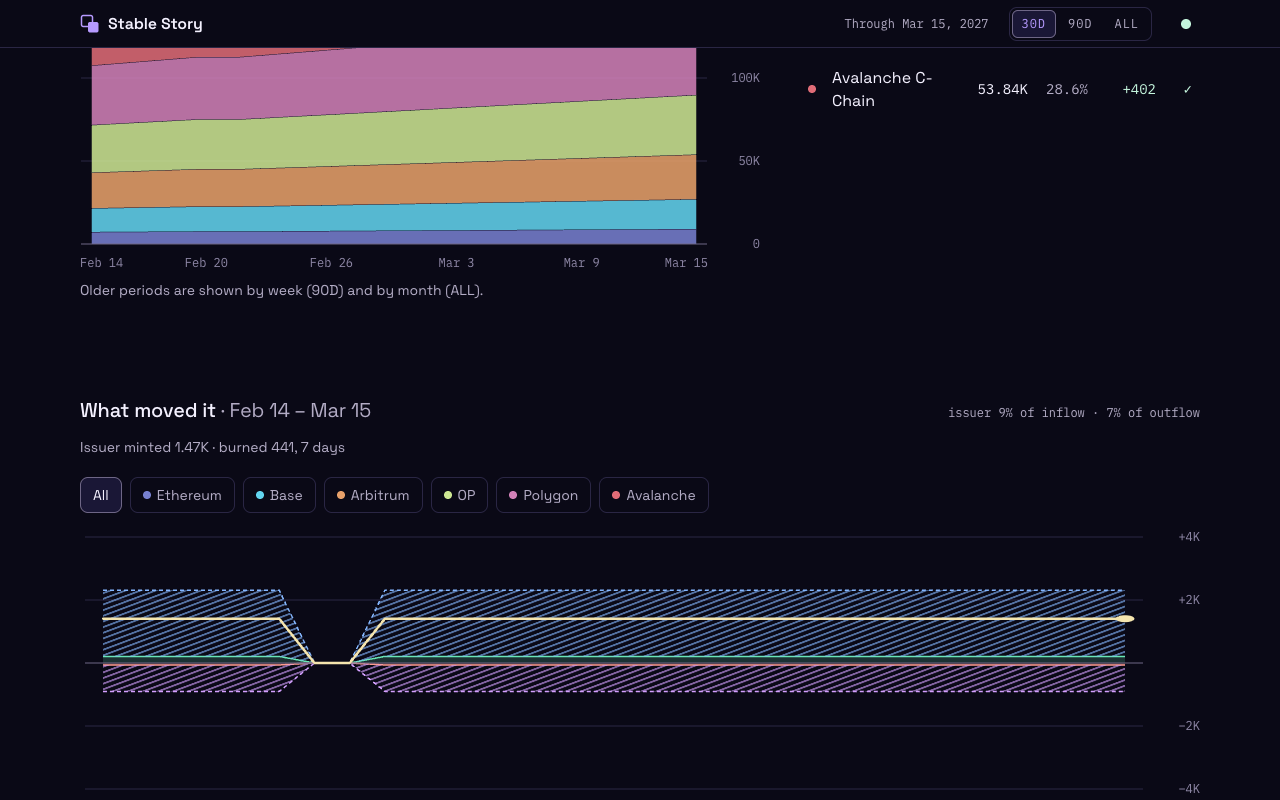
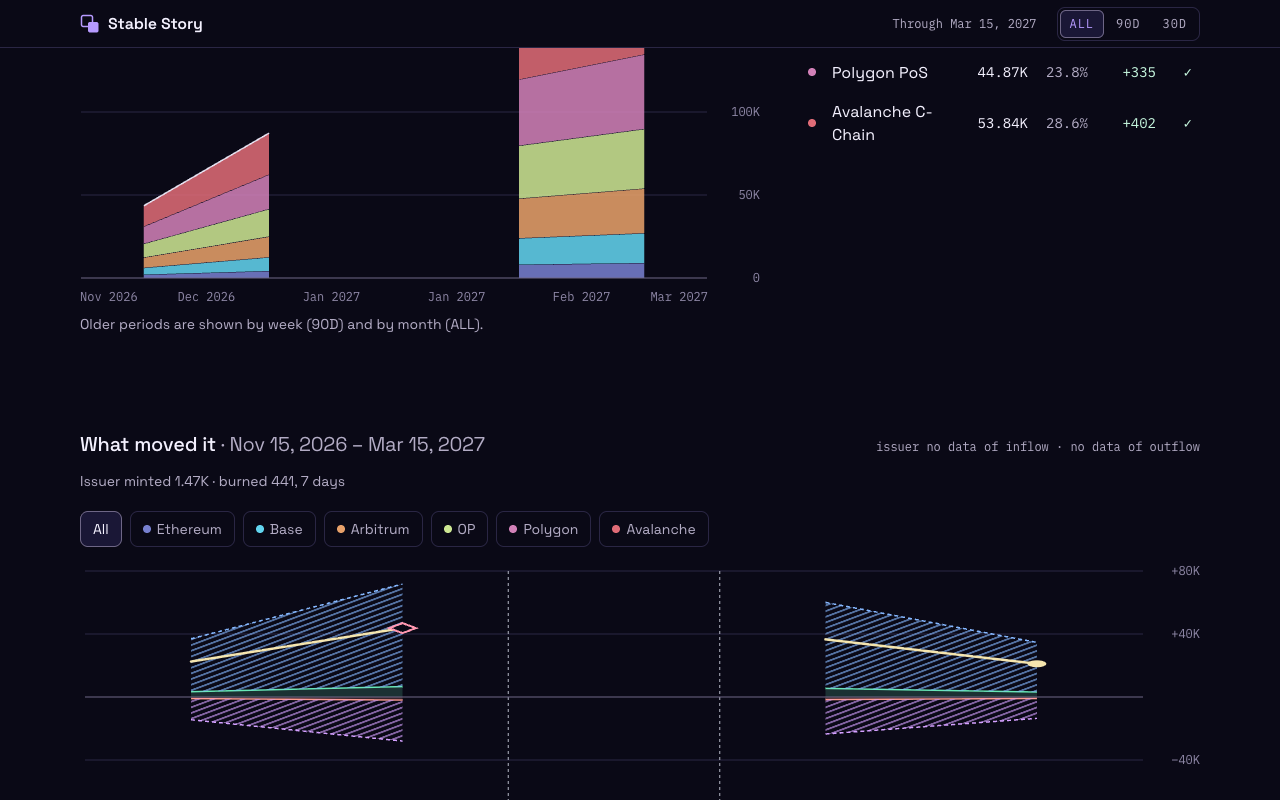
Refresh showcase images from the current page (ALL default)
Re-render docs/media/hero.png and docs/media/charts.png at 1280x800
from the built long-history mock state: ALL period active, no demo
banner, no annotations, sticky bar visible in charts.png. Update the
charts caption to describe the ALL stack.

diff --git a/README.md b/README.md
@@ -41,7 +41,7 @@ mirrored in the sticky bar once the hero scrolls away:
 
 ![Charts at 30D/90D/ALL with the sticky period control](docs/media/charts.png)
 
-*Same mock render as above: the 30D stack and the flows section under the sticky bar.*
+*Same mock render as above: the ALL stack and the flows section under the sticky bar; the page opens on ALL.*
 
 The server decides the window step and the selection; the page renders the step it is given and never aggregates.
 A chain without data for a period is "no data" — not zero, not drawn. How it all fits together is in
